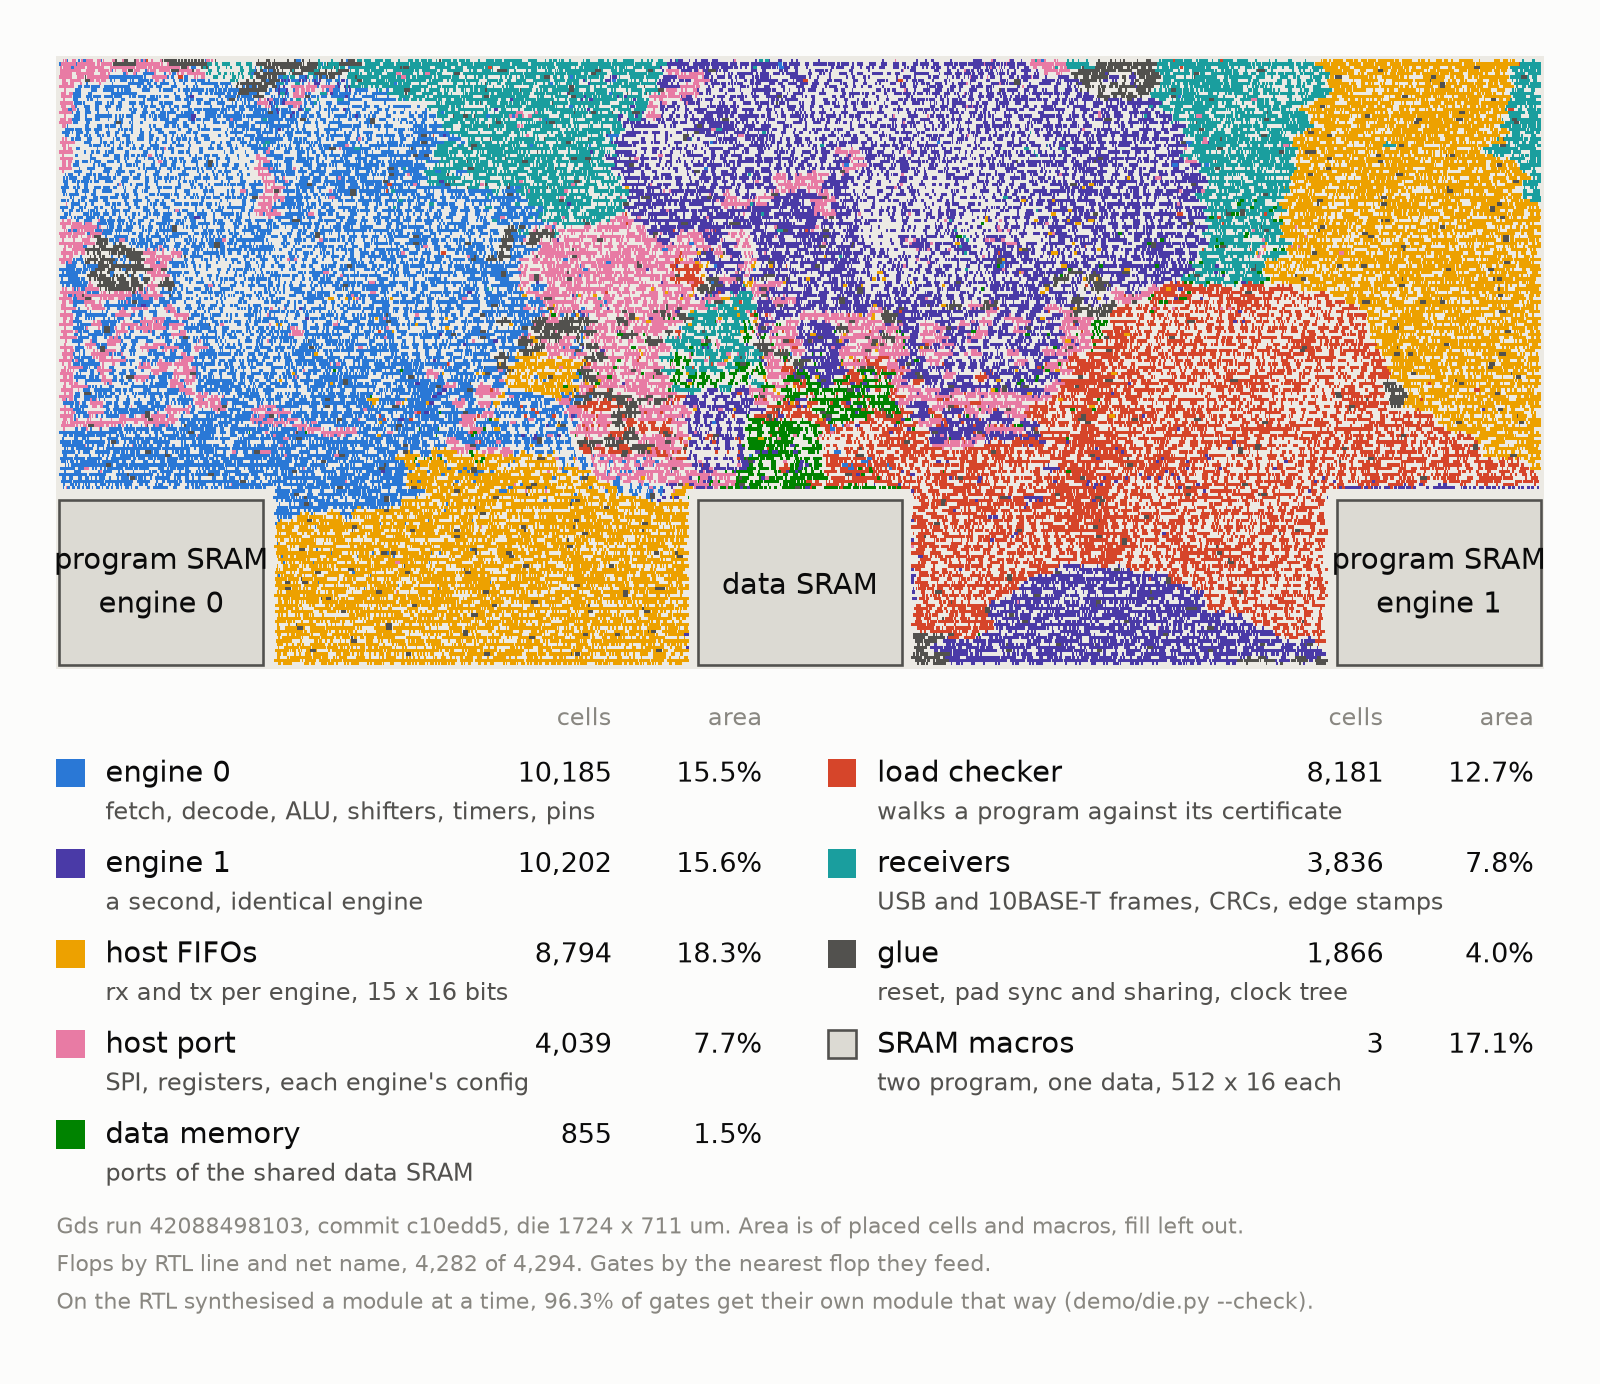
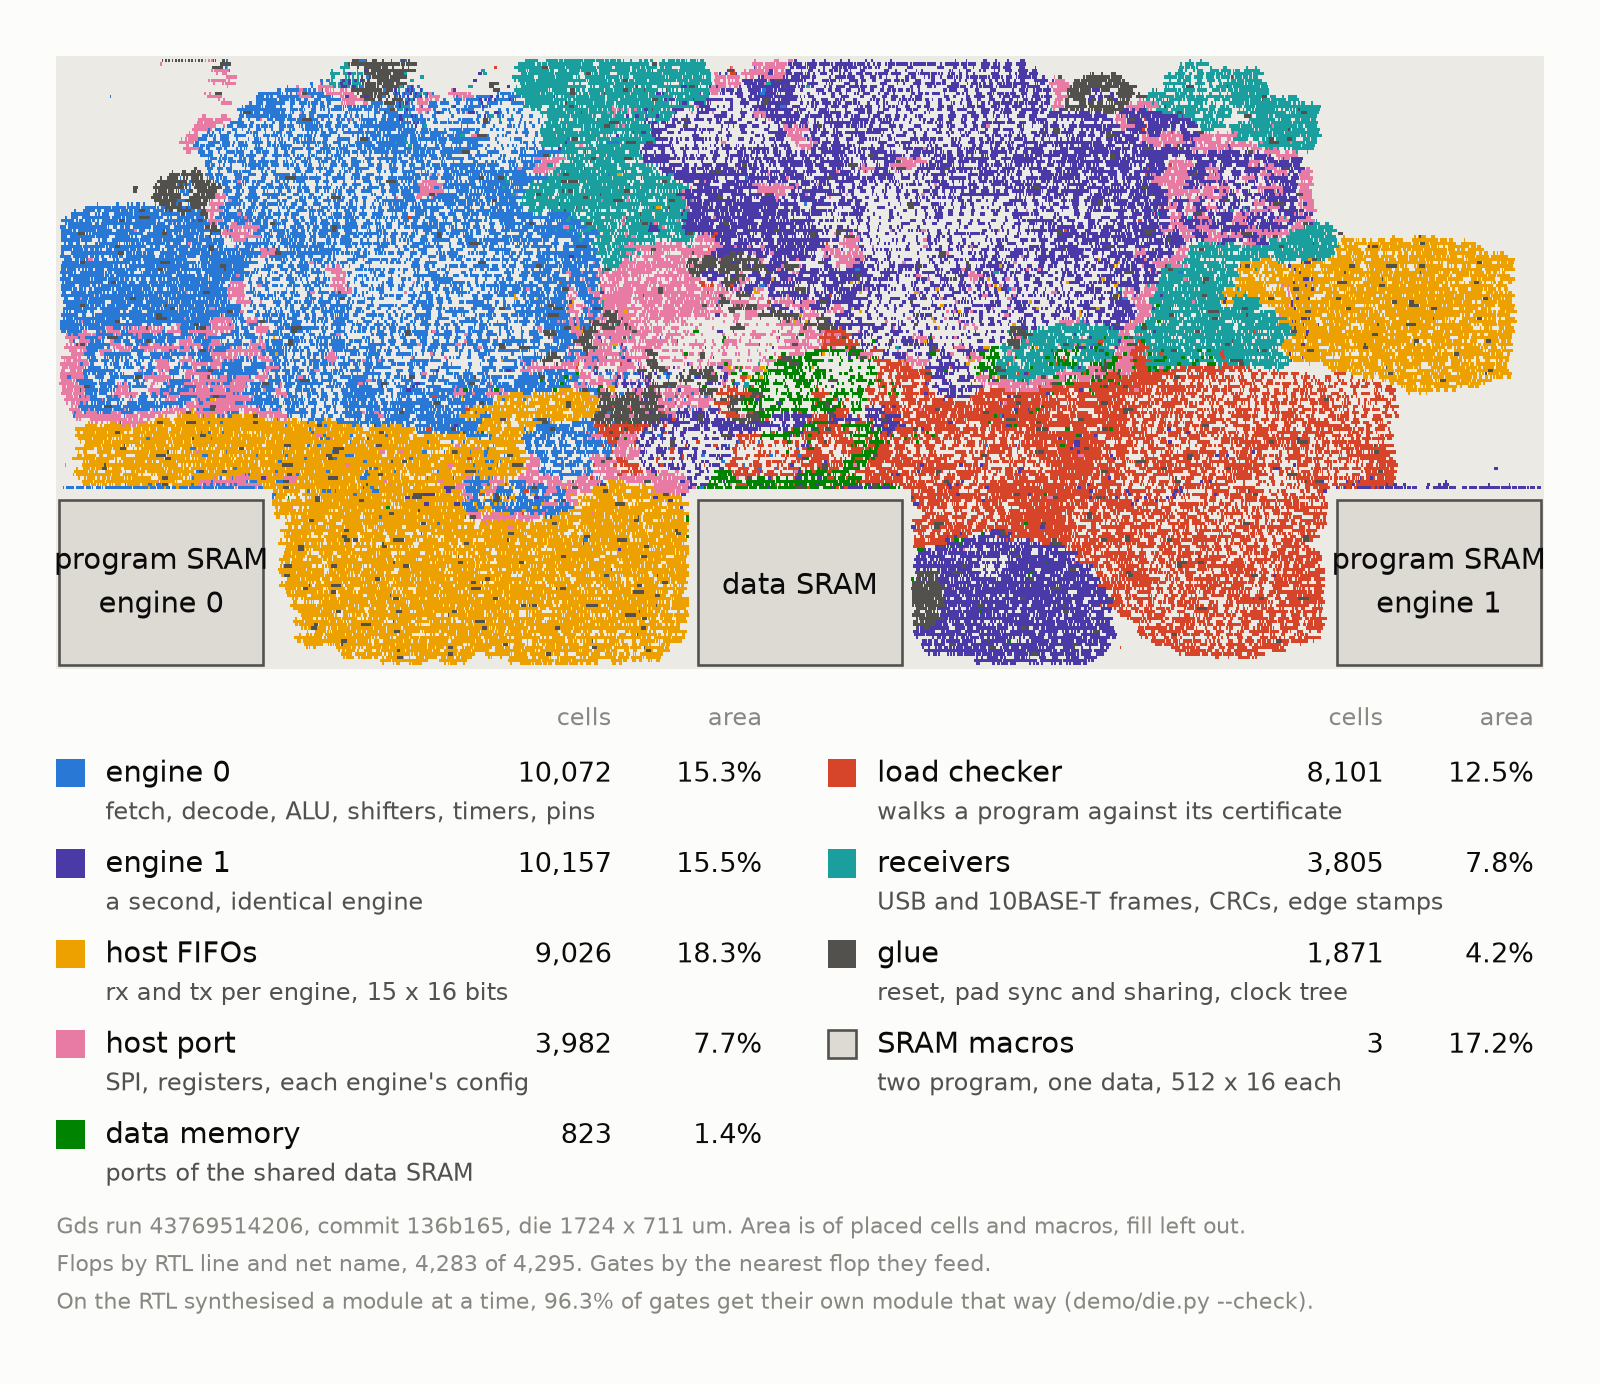
cite gds run 43769514206 and redraw the die from it

diff --git a/README.md b/README.md
@@ -28,7 +28,7 @@ checked, and 10BASE-T frames when clocked at 40 or 50 MHz.
 | Clock | 48 MHz | `info.yaml` |
 | Cores | 2 cores, 3 IHP 512 x 16 SRAM macros: a program memory each and a data memory they share | `src/protocol_emulator.v` |
 | Pins | 4 for the host's SPI, 5 in, 7 out, 8 bidirectional, and 8 wires between the cores | `info.yaml`, `src/isa.ml` |
-| Hardened | 47,958 standard cells at 65.7% utilisation, setup slack +4.034 ns at the slow corner, hold slack +0.019 ns, precheck clean | gds run [42268510223](https://github.com/MarcosAsh/protocol-emulator/actions/runs/42268510223) |
+| Hardened | 47,837 standard cells at 65.3% utilisation, setup slack +2.386 ns at the slow corner, hold slack +0.069 ns, precheck clean | gds run [43769514206](https://github.com/MarcosAsh/protocol-emulator/actions/runs/43769514206) |
 | Firmware | 68 library firmwares the kernel accepts | `test/test_kernel.ml` |
 | Proved | a program the kernel accepts never misses a deadline on each core's RTL, under the assumptions below | `formal/phase_table.sby`, `formal/phase_table_affine.sby` |
 | Board | the 8 x 4 RTL on an Icepi Zero (ECP5 FPGA): all 21 bench demos PASS, self-timing and USB keyboard included, witnesses recorded 2026-11-03, and 42 witnesses in all by 2026-11-11. No silicon yet | `test/board/` |

diff --git a/docs/hardware.md b/docs/hardware.md
@@ -7,10 +7,10 @@ bench measures it there. What passed on the board is on
 ## Harden
 
 To harden, clone TinyTapeout/tt-support-tools, branch `ihp-sg13cmos5l`, into `tt/`, then
-`tt/tt_tool.py --create-user-config --ihp` and `--harden --ihp`. Gds run 42268510223, on
-this Verilog, signs off with setup slack +4.034 ns at the slow corner, at 65.7%
+`tt/tt_tool.py --create-user-config --ihp` and `--harden --ihp`. Gds run 43769514206, on
+this Verilog, signs off with setup slack +2.386 ns at the slow corner, at 65.3%
 utilisation. The picture is this harden's die by RTL module, drawn by `demo/die.py` from its
-`GDS_logs` artifact. 4,282 of 4,294 flops map by RTL line and net name. Each gate goes with
+`GDS_logs` artifact. 4,283 of 4,295 flops map by RTL line and net name. Each gate goes with
 the nearest flop it feeds, which gets 96.3% of gates right on the RTL synthesised a module at
 a time (`--check`).
 

diff --git a/docs/verification.md b/docs/verification.md
@@ -103,7 +103,7 @@ last green run in CI is on the [results page](https://marcosash.github.io/protoc
     (`demo/decode.py`, the `decode` job)
   - USB enumeration, which the board does in `python/usb_board.py`
   - the gate-level netlist with the router's delays at the slow, typical and fast corners
-    (the `gl_sdf` job, 48 runs, all green in gds run 42268510223)
+    (the `gl_sdf` job, 48 runs, all green in gds run 43769514206)
   - that no one-field variant of the library the kernel accepts misses a deadline in a run:
     41,727 accepted and none late (`test/split/split.ml`, the `split` job, run
     40663800189, 2026-10-28)
